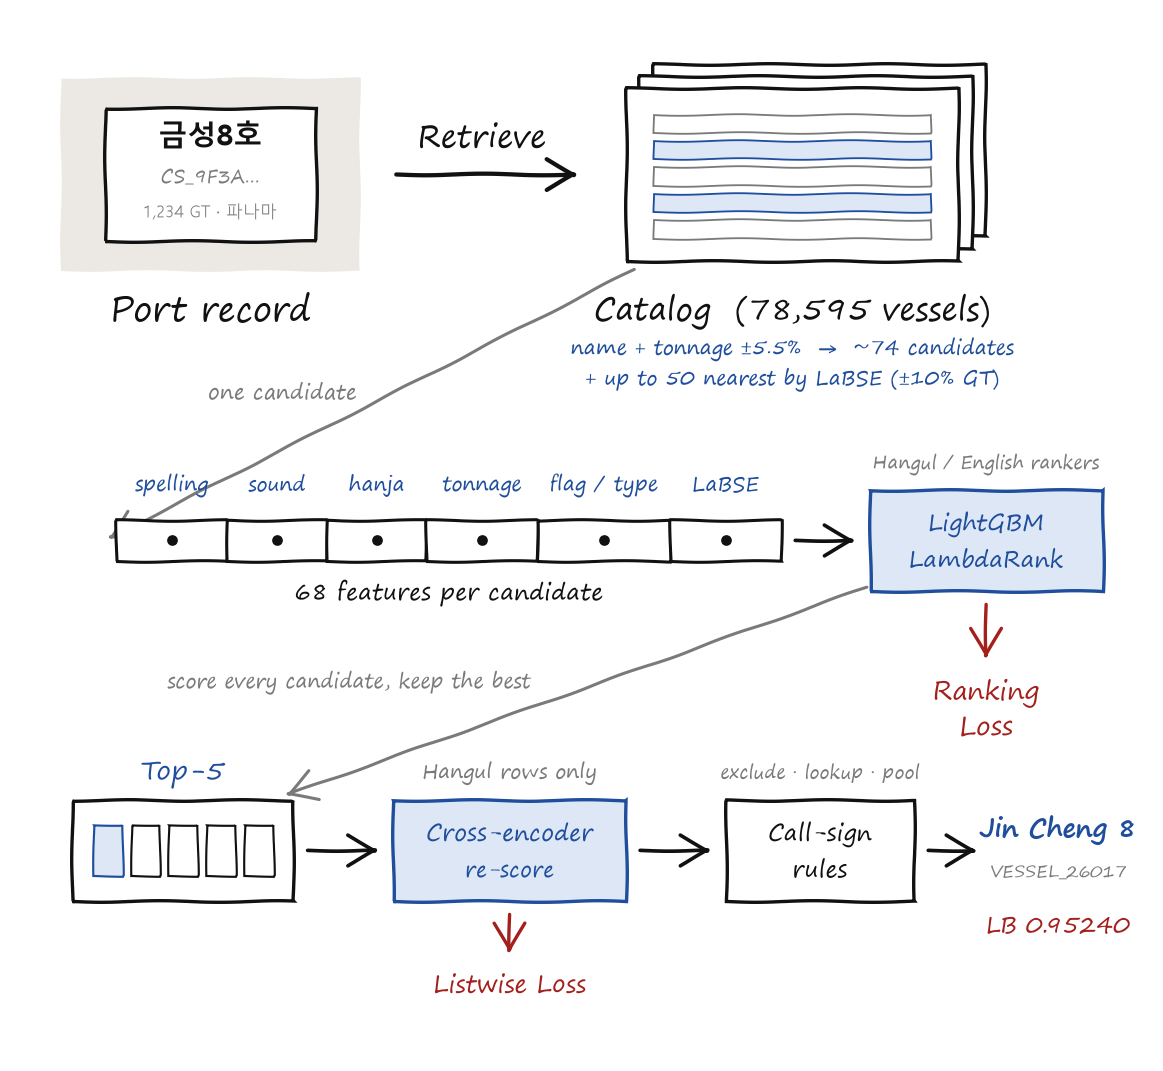
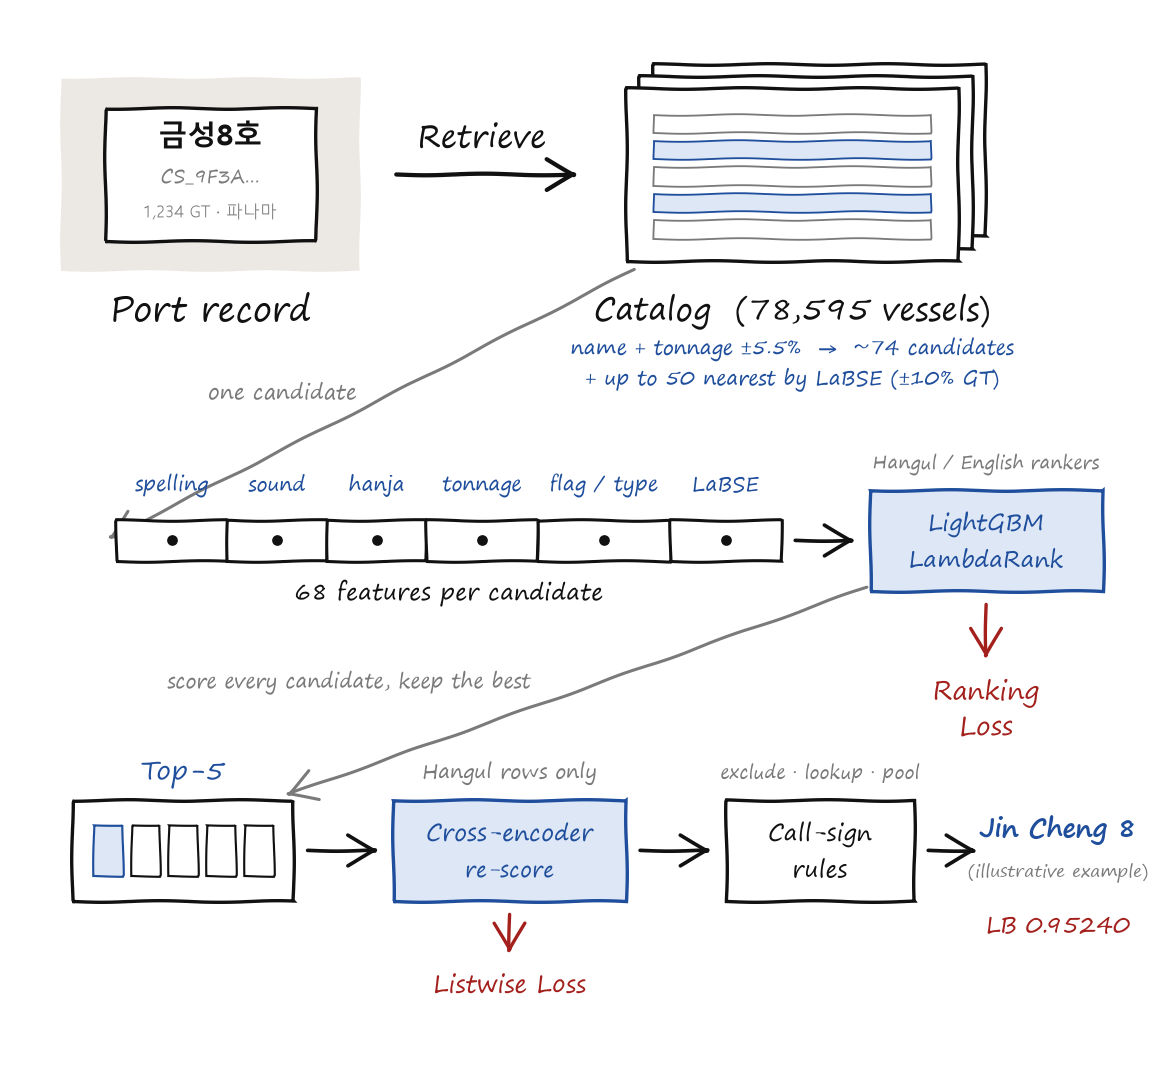
Add DS-day meeting doc; label walkthrough example as illustrative

diff --git a/assets/draw_architecture.py b/assets/draw_architecture.py
@@ -70,7 +70,7 @@ arrow((20, 84), (20, YT + HT))
 # output of top row
 ox = xs[-1] + W
 arrow((ox, YT + HT / 2), (ox + 5, YT + HT / 2))
-text(ox + 6, YT + HT / 2 + 1.6, "VESSEL_26017", size=10.5, ha="left", weight="bold")
+text(ox + 6, YT + HT / 2 + 1.6, "정답 선박 ID", size=10.5, ha="left", weight="bold")
 text(ox + 6, YT + HT / 2 - 1.6, "Jin Cheng 8", size=10.5, ha="left", c=BLUE)
 
 # ---------------- bottom row: one record through each stage ----------------

diff --git a/assets/draw_pipeline.py b/assets/draw_pipeline.py
@@ -99,7 +99,7 @@ with plt.xkcd(scale=0.8, length=120, randomness=1.5):
 
     arrow((81, yc + 1), (86, yc + 1), lw=2.4)
     txt(93, yc + 3.0, "Jin Cheng 8", size=17, c=BLUE, weight="bold")
-    txt(93, yc - 1.2, "VESSEL_26017", size=11, c=GRAY)
+    txt(93, yc - 1.2, "(illustrative example)", size=11, c=GRAY)
     txt(93, yc - 6.5, "LB 0.95240", size=15, c=RED)
 
     # LaBSE training note

diff --git a/docs/DS데이_선박매칭_검색랭킹모델.md b/docs/DS데이_선박매칭_검색랭킹모델.md
@@ -1,0 +1,347 @@
+# DS데이_선박매칭_검색랭킹모델
+
+> 항만에 들어온 배의 기록 한 줄을 보고, 7만 9천 척짜리 선박 명부에서 **그 배가 누구인지** 찾아 주는 모델이에요.
+> 최종 Public LB **0.95240**
+
+---
+
+## 이름에 담은 뜻
+
+| 부분 | 뜻 |
+|---|---|
+| **선박매칭** | 이 문제는 분류가 아니에요. 정답 후보가 78,595개인 **짝 찾기** 문제예요. 기록과 명부의 배를 1:1로 이어 줘요. |
+| **검색랭킹** | 모델의 뼈대예요. 후보를 먼저 **검색**하고, 학습한 모델이 후보의 **순위**를 매겨요. 자연어 모델(LaBSE, cross-encoder)은 이 뼈대를 돕는 부품이에요. |
+
+---
+
+## 30초 설명
+
+1. 기록 이름을 여러 방식(발음, 자모, 한자음, 뜻)으로 바꿔서 명부와 비교할 수 있게 만들어요.
+2. 명부에서 **후보를 100척 안팎으로** 추려요.
+3. 후보마다 **점수표 68칸**을 채우고, 순위 학습 모델이 **1등**을 골라요.
+4. 마지막으로 **호출부호 규칙**으로 한 번 더 확인해요.
+
+<p align="center"><img src="../assets/architecture.png" width="900" alt="모델 구조"></p>
+
+---
+
+## `금성8호`가 정답이 되기까지
+
+기록 하나가 모델 안에서 어떻게 바뀌는지 처음부터 끝까지 따라가 볼게요.
+(설명을 위해 만든 **가상 예시**예요. 실제 데이터의 행이 아니에요.)
+
+```
+입력  ─ vessel_name="금성8호", call_sign="CS_9F3A…", gross_tonnage=1234, flag_name="파나마"
+정답  ─ 명부의 "Jin Cheng 8"
+```
+
+### ① 읽기 — 한글을 비교할 수 있는 모양으로
+
+> **들어감** `금성8호` → **나옴** 비교용 키 여러 개
+
+명부에는 영문 이름만 있어요. 그래서 한글 이름을 영문과 같은 판에 올리는 것부터 해요.
+
+| 만든 키 | 값 | 이 키로 잡는 경우 |
+|---|---|---|
+| 발음 | `geum seong 8` | 소리대로 적은 이름 |
+| 자모 | `ㄱㅡㅁㅅㅓㅇ 8` | 한 글자 오타 |
+| 한자음 | `Jin Cheng 8` | 중국 배 이름을 한자음으로 읽은 경우 (金星 → 금성) |
+
+📄 `inference/model/vessel_lib.py` — `class Query`
+
+```python
+class Query:
+    def __init__(self, row, token_dict):
+        name = row.get("vessel_name")
+        self.hangul = is_hangul(name)
+        self.ko_k = ko_key(name) if self.hangul else ""     # 한글 키
+        self.ko_j = jamo(self.ko_k)                          # 자모로 분해
+        if self.hangul:
+            # 소리 키: 한글 → 로마자 → 발음 규칙
+            self.pkey = phonetic(romanize(clean_hangul(name)), english=False)
+        ...
+        self.digits = digits_of(self.clean)                  # "8" 따로 보관
+        self.g, self.ig = num(row.get("gross_tonnage")), num(row.get("international_gross_tonnage"))
+```
+
+> 💬 **포인트**: 기록 한 줄을 객체 하나로 만들어 두면, 뒤 단계는 모두 이 객체만 보고 일해요.
+
+### ② 좁히기 — 78,595척 → 100척 안팎
+
+> **들어감** 키 + 톤수 → **나옴** 후보 번호 목록
+
+여러 그물을 던져서 걸린 배를 **합집합**으로 모아요. 하나라도 걸리면 후보가 돼요.
+
+| 그물 | 걸리는 배 |
+|---|---|
+| 이름 유사도 상위 40척 | 이름이 비슷한 배 |
+| 톤수 ±5.5% 안의 상위 30척 | 이름은 조금 달라도 크기가 맞는 배 |
+| 톤수가 똑같은 배 | 이름을 바꾼 배 |
+| 한자음·뜻 사전 | `금성` ↔ `Jin Cheng` |
+| **LaBSE 의미 검색** (톤수 ±10% 안 최대 50척) | `해풍` ↔ `Sea Wind`처럼 뜻을 번역한 이름 |
+
+📄 `vessel_lib.py` — `retrieve()`
+
+```python
+def retrieve(q, sim, idx, key_sims=(), top_name=40, top_gt=30):
+    picks = [np.argpartition(-sim, top_name)[:top_name]]          # 이름 상위 40
+    if HANJA and q.hangul and q.ko_k:
+        picks.append(np.asarray(idx.hj_index.get(q.ko_k, [])))     # 한자음 사전
+    win = np.union1d(idx.gt_window(q.g), idx.gt_window(q.ig))      # 톤수 ±5.5% 창
+    if len(win):
+        k = min(top_gt, len(win))
+        picks.append(win[np.argpartition(-sim[win], k - 1)[:k]])   # 창 안 상위 30
+    ...
+    return np.unique(np.concatenate(picks))                        # 합집합
+```
+
+📄 `vessel_lib.py` — `Matcher.candidates()` 안의 의미 검색
+
+```python
+qv = EMB.vec(r.get("vessel_name"))            # 한글 기록 → 768차원 벡터 (LaBSE)
+s = EMB.C @ qv                                 # 명부 전체와 코사인 유사도
+win = np.flatnonzero(np.abs(self.idx.gt - g) <= EMB_TOL * g)   # 톤수 ±10%
+cands = np.union1d(cands, win[np.argpartition(-s[win], k - 1)[:k]])
+```
+
+> 💬 **포인트**: 이 단계는 **놓치지 않는 것**이 목표예요(recall). 여기서 정답이 빠지면 뒤에서 아무리 잘해도 소용없어요.
+
+### ③ 채점표 — 후보마다 68칸
+
+> **들어감** 후보 N척 → **나옴** N × 68 행렬
+
+(기록, 후보) 한 쌍마다 "얼마나 닮았는지"를 숫자 68개로 적어요.
+
+```
+          철자  발음  한자음  숫자  톤수차  국적확률  …  LaBSE
+Jin Cheng 8  0.62  0.71   1.00   1     0.00    0.81   …  0.77   ← 정답
+Jin Sheng 8  0.58  0.66   0.00   1     0.03    0.81   …  0.74
+Kum Sung 8   0.40  0.93   0.00   1     0.21    0.10   …  0.52
+…
+```
+(값은 이해를 돕기 위한 예시예요)
+
+📄 `vessel_lib.py` — `pair_features()`, 목록은 `FEATURES`
+
+```python
+for i in cands:
+    rows.append([
+        float(q.hangul), q.dict_cov,
+        fuzz.ratio(qc, cc), fuzz.partial_ratio(qc, cc),                # 철자 유사도
+        fuzz.token_sort_ratio(qt, ctx), fuzz.token_set_ratio(qt, ctx),
+        JaroWinkler.similarity(qc, cc), Levenshtein.normalized_similarity(qc, cc),
+        ...                                                            # 발음·한자음·톤수·국적 …
+    ])
+```
+
+> 💬 **포인트**: 한글 기록끼리는 철자 비교가 의미 없어요. 그래서 한글이면 `qc, cc`에 **발음 키**를 넣어서 비교해요.
+> ```python
+> qc, cc = (q.pcomp, cp) if q.hangul else (q.comp, idx.comp[i])
+> ```
+
+### ④ 줄 세우기 — 학습한 모델이 1등을 고름
+
+> **들어감** N × 68 → **나옴** 후보별 점수
+
+두 모델이 차례로 점수를 매겨요.
+
+**(가) LightGBM LambdaRank**: 모든 후보에 점수를 매겨요.
+- 한글 기록은 한글 전용 모델 3개의 평균으로 채점해요.
+- 영문 기록은 영문 전용 모델 9개의 평균으로 채점해요.
+
+**(나) Cross-encoder**: 한글 기록만, 상위 5개 후보를 다시 채점해요.
+- 기록과 후보 이름을 **한 문장으로 붙여서** BERT에 넣어요.
+- 그래서 두 이름의 글자끼리 직접 비교할 수 있어요.
+
+📄 `vessel_lib.py` — `Matcher.predict()`
+
+```python
+sc = self.booster.predict(X)                               # (가) 랭커 점수
+if CE is not None and q.hangul and len(cands) > 1:
+    top = np.argsort(-sc, kind="stable")[:CE_TOP]          # 상위 5개만
+    sc[top] += CE_W * CE.score(row.get("vessel_name"),     # (나) + 0.25 × cross-encoder
+                               self.idx.names[cands[top]])
+best = str(self.idx.ids[cands[int(np.argmax(sc))]])        # 1등
+```
+
+📄 `inference/script.py` — 한글/영문 모델 나누기
+
+```python
+class RowTypeSwitch:
+    def predict(self, X):
+        if self.other is not None and len(X) and X[0, 0] != 1.0:   # 0번 특징 = 한글 여부
+            return self.other.predict(X)                            # 영문 행 → 영문 랭커
+        return self.hangul.predict(X)                               # 한글 행 → 한글 랭커
+```
+
+### ⑤ 확인 — 호출부호 규칙
+
+> **들어감** 1등 후보 + 상위 20개 점수 → **나옴** 최종 선박 ID
+
+train에서 **호출부호 1개 = 배 1척**(5,851 ↔ 5,851)이에요. 이 사실로 모델의 답을 한 번 더 걸러요.
+
+```
+CS_9F3A… 가 train에 있나?
+ ├─ 있음  → train의 그 배로 확정                         (고정 조회)
+ └─ 없음  → train에 이미 다른 호출부호로 묶인 배는 후보에서 뺌   (배제)
+            같은 호출부호를 가진 test 행끼리는 확률을 합쳐서 결정  (묶기)
+```
+
+📄 `inference/script.py` — `callsign_postprocess()`
+
+```python
+clash = sum(preds[i] != callsign_map[r["call_sign"]] for i, r, d in seen_eng)
+hard = CS_HARD and clash <= 2 + 0.30 * len(seen_eng)       # 자기 검증 게이트
+if hard:
+    for i, r, d in seen:
+        out[i] = callsign_map[r["call_sign"]]               # 고정 조회
+...
+if exclude:
+    keep = [j for j, v in enumerate(ids) if v not in known] # 배제
+p = np.exp((sc - sc.max()) / POOL_T)                        # softmax 확률
+```
+
+> 💬 **포인트**: 규칙을 무작정 켜지 않아요. 먼저 정확도가 높은 **영문 행**에서 규칙과 모델이 얼마나 부딪히는지 세요. 부딪힘이 30%를 넘으면 그 규칙은 **스스로 꺼져요**.
+
+**결과**: 명부의 `Jin Cheng 8` 선박 ID를 제출해요 ✅
+
+---
+
+## 모델은 이렇게 배웠어요
+
+### 순위 학습: 정답을 1등으로 올리기
+
+일반 분류는 후보 하나하나를 "정답이다 / 아니다"로 따로 맞혀요.
+순위 학습은 **기록 하나의 후보 전체를 한 묶음**으로 보고, 묶음 안에서 정답이 맨 위에 오도록 배워요.
+
+📄 `training/train.py`
+
+```python
+PARAMS = dict(objective="lambdarank", n_estimators=600, learning_rate=0.03, num_leaves=31,
+              lambdarank_truncation_level=10,
+              monotone_constraints=[MONOTONE.get(f, 0) for f in FEATURES])  # "닮을수록 점수↑" 강제
+
+def weights(hang, groups):                       # 평가식 0.7(한글) / 0.3(영문)을 학습에 반영
+    w = np.where(hang, 0.7 / max(hang.sum(), 1), 0.3 / max((~hang).sum(), 1)) * len(hang)
+    return np.repeat(w, groups)
+
+def fit_ranker(Xs, ys, hang):
+    X = np.vstack(...); y = np.concatenate(...)
+    g = np.asarray([len(ys[i]) for i in keep])   # 묶음 크기 = 기록마다 후보 수
+    return BoosterAverage([lgb.LGBMRanker(**(PARAMS | dict(random_state=42 + s)))
+                           .fit(X, y, group=g, sample_weight=w) for s in range(N_SEEDS)])
+```
+
+### 한글 기록이 1,191개뿐이라서: 데이터 늘리기
+
+| 방법 | 코드 | 만드는 것 |
+|---|---|---|
+| 규칙 기반 | `training/augment.py` | 자모 오타, 띄어쓰기, `호`/`제` 붙이기, 톤수 오차·결측 |
+| LLM 합성 | `llm_synthetic/gen_synth.py` | Qwen2.5-7B로 train 배 이름을 5가지 스타일(소리, 한자음, 뜻, 혼합, 줄임)의 한글로 작성 |
+
+### 신경망 부품 두 개 (Kaggle GPU에서 학습)
+
+| | LaBSE (의미 검색) | Cross-encoder (재채점) |
+|---|---|---|
+| 입력 | 이름 하나씩 따로 | 기록 + 후보 이름을 붙여서 |
+| 방식 | bi-encoder: 벡터끼리 비교 | 한 번에 읽고 점수 출력 |
+| 속도 / 정확도 | 빠름 / 보통 | 느림 / 높음 |
+| 쓰는 곳 | 명부 전체에서 후보 찾기 | 상위 5개만 |
+| 학습 코드 | `labse_finetune/ft_labse.py` | `cross_encoder/ce_train.py` |
+| 손실 | in-batch 대조 학습 | 정답 1 vs 하드 네거티브 listwise softmax |
+
+```python
+# ft_labse.py — 배치 안에서 i번째 기록의 정답은 i번째 이름 (나머지는 전부 오답)
+loss = F.cross_entropy(logits, torch.arange(len(vids)))
+
+# ce_train.py — 한 묶음(정답 + 랭커가 헷갈린 후보들)에서 정답(0번)을 고르도록
+loss += F.cross_entropy(logits[o:o + len(grp)][None], torch.zeros(1, dtype=torch.long))
+```
+
+### 공정하게 재기
+
+- train에 같은 배가 평균 2번 나와요. 그래서 **배 단위로 fold를 나눴어요** (GroupKFold 5).
+  - 기록 단위로 나누면 검증에 나온 배를 학습에서 이미 본 셈이라 점수가 부풀어요.
+- 신경망 부품과 보조 사전도 **fold마다 따로** 만들었어요. 랭커가 본 점수가 미래 정보를 담지 않게 하려는 거예요.
+- `training/stress_eval.py`는 검증 기록에 일부러 손상을 넣고 채점해요.
+  - 손상 종류: 오타, 톤수 제거, 국적 제거, 여러 손상 동시에
+  - 어느 조건에서 무너지는지 보려고 만들었어요.
+
+---
+
+## 코드 지도
+
+```
+dacon-vessel-matching/
+├── inference/                    ← 대회 서버에서 실제로 돌아가는 코드
+│   ├── script.py                 진입점 run() · 한글/영문 랭커 분기 · 호출부호 후처리
+│   └── model/
+│       ├── vessel_lib.py         ①~④ 전부: Query, retrieve, pair_features, Matcher
+│       ├── hanja.py              병음 ↔ 한자음 표 (Jin → 금/진)
+│       ├── emb_feat.py           LaBSE 벡터 만들기
+│       └── ce_feat.py            cross-encoder 채점
+├── training/
+│   ├── train.py                  랭커 학습 + 교차검증 + 제출 zip 만들기
+│   ├── augment.py                규칙 기반 증강
+│   └── stress_eval.py            손상 조건별 검증
+├── labse_finetune/               LaBSE 파인튜닝
+├── cross_encoder/                cross-encoder 학습
+└── llm_synthetic/                LLM으로 한글 기록 합성
+```
+
+**처음 읽는 순서**: `script.py: run()` → `vessel_lib.py: Matcher.predict()` → `candidates()` → `Query` → `retrieve()` → `pair_features()` → `train.py: fit_ranker()`
+
+---
+
+## 결과
+
+| | 점수 | 한글 정답 | 영문 정답 |
+|---|---|---|---|
+| 후처리 전 | 0.95147 | 504 / 532 | 3,429 / 3,568 |
+| **최종 (후처리 후)** | **0.95240** | 504 / 532 (94.7%) | 3,440 / 3,568 (96.4%) |
+
+정답 수는 점수에서 거꾸로 계산했어요 (`0.7 × 한글/532 + 0.3 × 영문/3,568`).
+
+**남은 숙제**
+- 남은 한글 오답 28건 중 약 16건은 정답이 상위 5개 후보에 없었어요.
+- 창작에 가까운 표기는 ② 좁히기 단계에서부터 놓친다는 뜻이에요.
+- 다음 시도: LLM으로 검색 키를 더 만들기, 더 큰 cross-encoder
+
+---
+
+## 예상 질문
+
+<details><summary><b>Q. 딥러닝 하나로 하지 않고 트리 모델을 중심에 둔 이유는?</b></summary>
+
+- 한글 기록이 1,191개뿐이라 큰 모델을 처음부터 학습하기 어려웠어요.
+- 발음·한자음·톤수 같은 도메인 지식은 사람이 만든 특징으로 넣는 게 확실했어요.
+- 그래서 신경망은 후보 찾기(LaBSE)와 재채점(cross-encoder) **부품**으로 붙였어요.
+</details>
+
+<details><summary><b>Q. 분류가 아니라 순위 학습을 쓴 이유는?</b></summary>
+
+- 정답 후보가 78,595개라서 클래스마다 분류기를 둘 수 없어요.
+- 우리가 원하는 건 "이 후보가 정답일 확률"이 아니라 "후보들 중 누가 1등인가"예요.
+- LambdaRank는 1등 자리가 바뀌는 실수에 더 큰 벌점을 줘요.
+</details>
+
+<details><summary><b>Q. LaBSE와 cross-encoder는 둘 다 BERT인데 왜 둘 다 썼나요?</b></summary>
+
+- LaBSE는 이름을 따로 벡터로 만들어 둘 수 있어서, 7만 9천 척 전체를 빠르게 훑을 수 있어요.
+- cross-encoder는 두 이름을 같이 읽어서 더 정확하지만 느려요. 그래서 상위 5개에만 썼어요.
+- **넓게는 빠른 모델, 좁게는 정확한 모델**이에요.
+</details>
+
+<details><summary><b>Q. 호출부호 규칙이 테스트에서 틀리면?</b></summary>
+
+- 규칙마다 자기 검증 게이트가 있어요.
+- 영문 행에서 규칙과 모델 예측이 30% 넘게 부딪히면 그 규칙은 꺼지고 모델 답을 그대로 써요.
+</details>
+
+<details><summary><b>Q. 과적합은 어떻게 막았나요?</b></summary>
+
+- 배 단위 GroupKFold로 검증했어요.
+- 보조 사전과 신경망을 fold마다 따로 만들었어요.
+- "닮을수록 점수가 높다"는 단조 제약을 걸었어요.
+- 일부러 손상을 넣는 스트레스 테스트로 확인했어요.
+</details>

diff --git a/README.md b/README.md
@@ -1,5 +1,7 @@
 # 항만 입출항 기록 ↔ 선박 카탈로그 매칭 (DACON)
 
+> **DS데이_선박매칭_검색랭킹모델** · 미팅 자료는 [docs/DS데이_선박매칭_검색랭킹모델.md](docs/DS데이_선박매칭_검색랭킹모델.md)
+
 [DACON 경진대회 236771](https://dacon.io/competitions/official/236771)에 팀으로 참가하며 만든 코드입니다.
 항만 입출항 기록 한 줄을 받아서, 약 7만 9천 척이 담긴 선박 카탈로그에서 같은 배를 찾는 문제예요.
 
